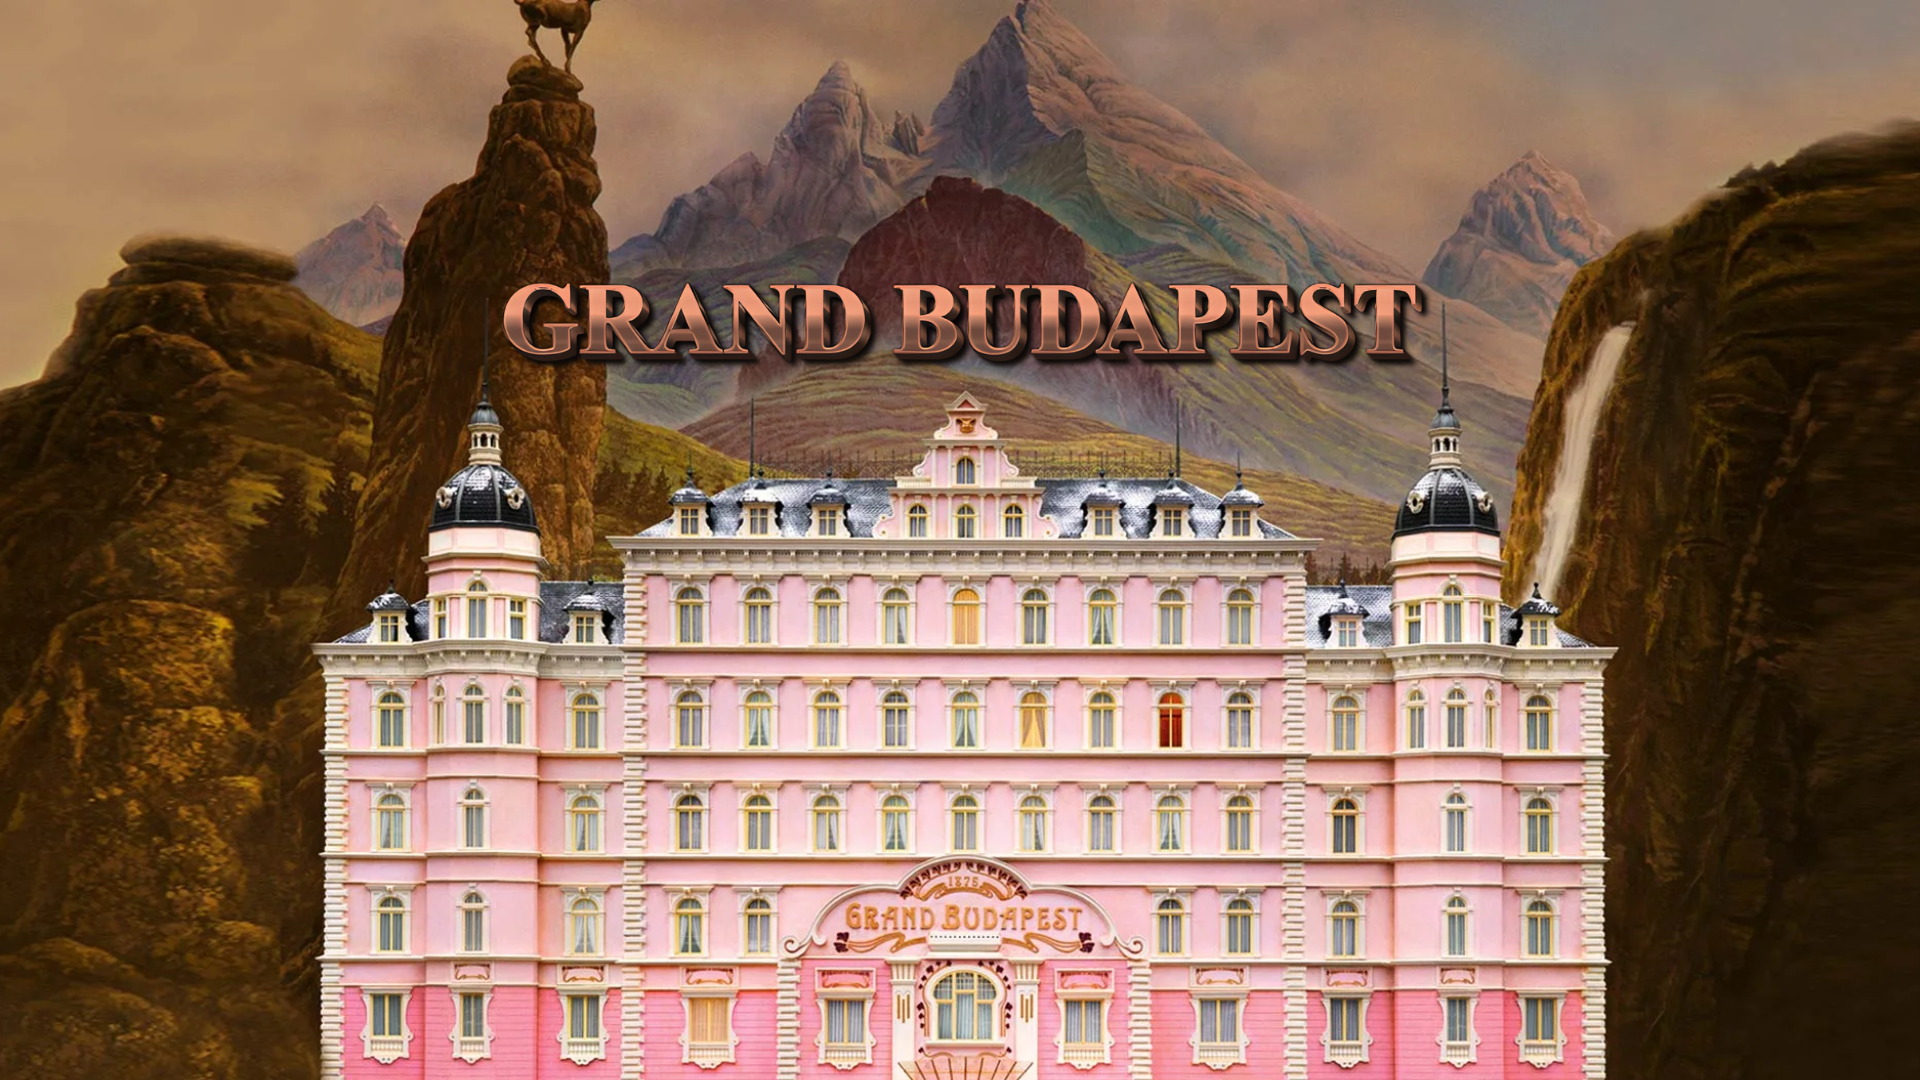
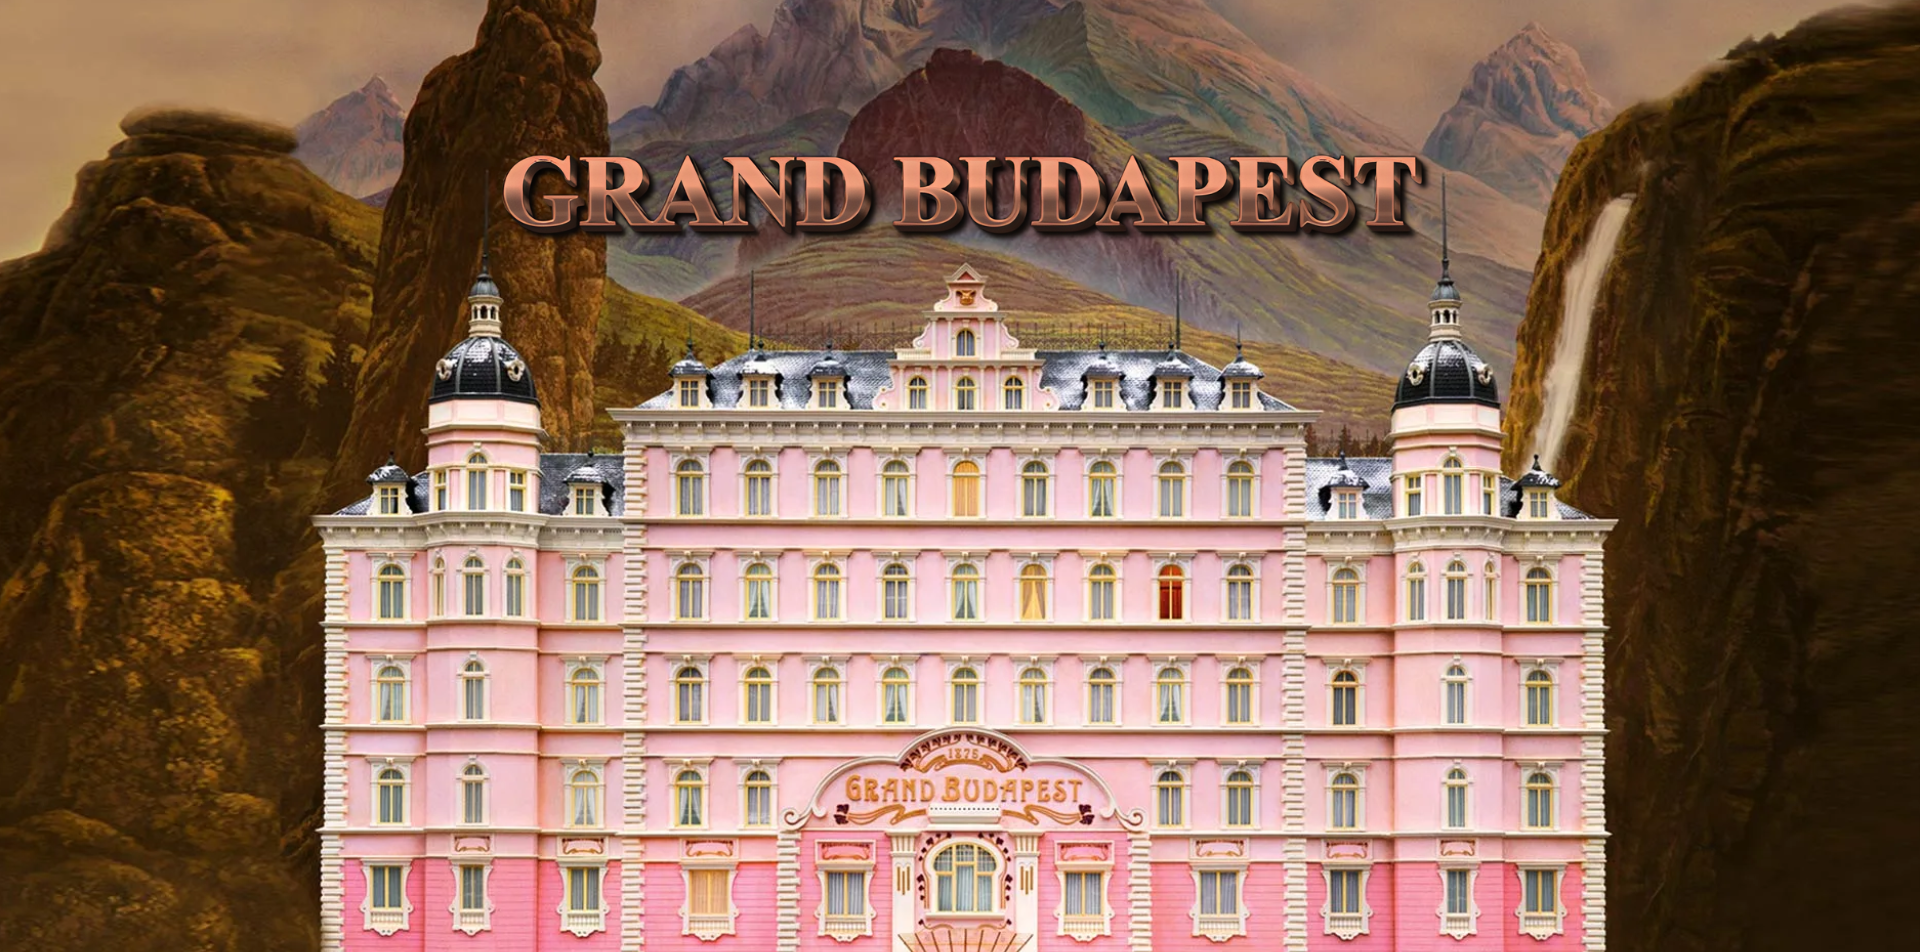
yes

diff --git a/index.php b/index.php
@@ -8,6 +8,9 @@
 </head>
 <body>
     
+    <!-- Hero Banner -->
+    <img src="images/index-hero.png" alt="hero banner" class="img-fluid w-100">
+
     <div class="container">
 
         <div class="row">
@@ -28,7 +31,7 @@
 
     </div>
     
-    ijdwaiojdwaoijdwaiojdwoaijdwa
+ 
 
 
 
